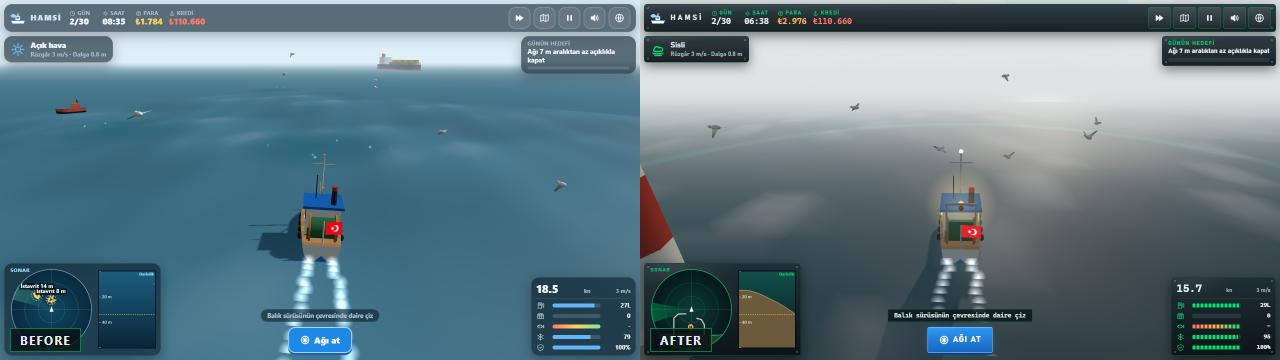
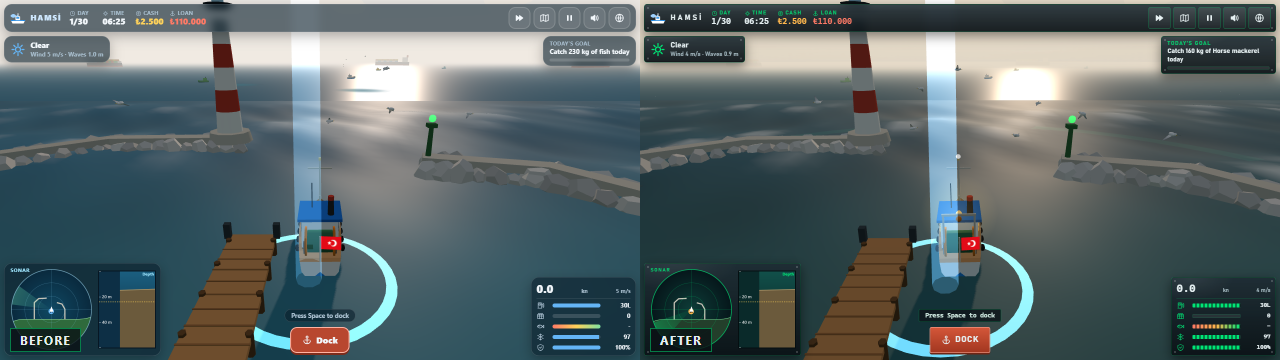
fix(redesign): slate-blue capped mist, dedupe toasts, same-state before/after, mist shot
Claude-Session: https://claude.ai/code/session_014vMYwwQ3htV8WjCni8q7av

diff --git a/index.html b/index.html
@@ -1661,8 +1661,8 @@ function updateEnv(dt) {
   hemi.intensity = lerp(0.9, 0.78, over); hemi.color.setRGB(lerp(0.72, 0.6, over), lerp(0.82, 0.7, over), lerp(0.92, 0.8, over)); hemi.groundColor.setRGB(0.2, 0.3, 0.27);
   SKY.zen.setRGB(0.2, 0.38, 0.55).lerp(SKY.tmp.setRGB(0.86, 0.56, 0.4), warm * 0.45).lerp(SKY.tmp.setRGB(0.36, 0.43, 0.49), over);
   SKY.hor.setRGB(0.62, 0.72, 0.76).lerp(SKY.tmp.setRGB(1.0, 0.72, 0.42), warm * 0.8).lerp(SKY.tmp.setRGB(0.5, 0.56, 0.6), over * 0.9);
-  if (w.fogMorning > 0.2) SKY.hor.lerp(SKY.tmp.setRGB(0.78, 0.84, 0.86), w.fogMorning * 0.6);
-  scene.fog.color.copy(SKY.hor); scene.fog.density = w.fog * (1 + 0.5 * warm);
+  if (w.fogMorning > 0.2) SKY.hor.lerp(SKY.tmp.setRGB(0.36, 0.45, 0.5), w.fogMorning * 0.55); // slate-blue mist, never milky white
+  scene.fog.color.copy(SKY.hor); scene.fog.density = Math.min(w.fog, 0.0065) * (1 + 0.3 * warm);
   waterBase.setRGB(0.04, 0.14, 0.19).multiplyScalar(lerp(1.05, 0.6, over) * (0.72 + 0.28 * Math.sin(el))); farSea.material.color.copy(waterBase).multiplyScalar(1.0);
   cloudMesh.material.color.setRGB(lerp(1, 0.42, w.s), lerp(1, 0.44, w.s), lerp(1, 0.48, w.s)); cloudMesh.position.set(camera.position.x, 0, camera.position.z);
   skyT -= dt; if (skyT <= 0) {
@@ -1670,8 +1670,8 @@ function updateEnv(dt) {
     g.addColorStop(0, '#' + SKY.zen.getHexString()); g.addColorStop(0.32, '#' + SKY.tmp.copy(SKY.zen).lerp(SKY.hor, 0.55).getHexString()); g.addColorStop(0.5, '#' + SKY.hor.getHexString()); g.addColorStop(1, '#' + SKY.hor.getHexString());
     skyCtx.fillStyle = g; skyCtx.fillRect(0, 0, 2, 128); skyTex.needsUpdate = true;
   }
-  { const base = 0.34 + 0.5 * w.fogMorning + 0.3 * w.s; for (const m of mistRings) { m.position.set(camera.position.x, m.userData.h * 0.22, camera.position.z); m.material.color.copy(SKY.hor).lerp(SKY.tmp.setRGB(1, 1, 1), 0.12); m.material.opacity = m.userData.op * base; m.userData.tex.offset.x += m.userData.sp * dt; }
-    mistBankMat.color.copy(SKY.hor); mistBankMat.opacity = 0.16 + 0.34 * w.fogMorning + 0.2 * w.s; for (const b of mistBanks) b.position.y += Math.sin(VT * 0.2 + b.userData.ph) * 0.004; }
+  { const base = Math.min(0.62, 0.3 + 0.28 * w.fogMorning + 0.2 * w.s); for (const m of mistRings) { m.position.set(camera.position.x, m.userData.h * 0.22, camera.position.z); m.material.color.copy(SKY.hor).lerp(SKY.tmp.setRGB(0.23, 0.3, 0.35), 0.35); m.material.opacity = m.userData.op * base; m.userData.tex.offset.x += m.userData.sp * dt; }
+    mistBankMat.color.copy(SKY.hor).lerp(SKY.tmp.setRGB(0.23, 0.3, 0.35), 0.3); mistBankMat.opacity = Math.min(0.32, 0.14 + 0.16 * w.fogMorning + 0.1 * w.s); for (const b of mistBanks) b.position.y += Math.sin(VT * 0.2 + b.userData.ph) * 0.004; }
   sky.position.copy(camera.position); sunSprite.position.copy(camera.position).addScaledVector(sd, 3000); sunSprite.material.opacity = (1 - over) * 0.8; sunSprite.visible = sunSprite.material.opacity > 0.03 && sd.y > 0.02;
   const b = G.boat; sun.position.set(b.x + sd.x * 90, sd.y * 90, b.z + sd.z * 90); sun.target.position.set(b.x, 0, b.z); sun.target.updateMatrixWorld();
   { const dk = clamp(over * 0.9 + warm * 0.8 + w.fogMorning * 0.5, 0, 1); boatLightMat.color.setScalar(0.2 + 0.8 * dk); boatGlowMat.opacity = 0.04 + 0.3 * dk; }
@@ -1714,8 +1714,8 @@ const txtCache = new Map();
 function setText(el, v) { if (typeof el === 'string') el = $(el); if (!el) return; const k = el; if (txtCache.get(k) !== v) { txtCache.set(k, v); el.textContent = v; } }
 function setBar(id, f, low) { const el = $(id); const i = el.firstElementChild; const w = (clamp(f, 0, 1) * 100).toFixed(0) + '%'; if (i.style.width !== w) i.style.width = w; el.classList.toggle('low', !!low); }
 function toast(msg, kind) {
-  const box = $('toasts'); if (!box) return; const d = document.createElement('div'); d.className = 'toast ' + (kind || 'info'); d.textContent = msg; box.appendChild(d);
-  while (box.children.length > 4) box.removeChild(box.firstChild);
+  const box = $('toasts'); if (!box) return; const lt = box.lastElementChild; if (lt && lt.textContent === msg && !lt.classList.contains('out')) return; const d = document.createElement('div'); d.className = 'toast ' + (kind || 'info'); d.textContent = msg; box.appendChild(d);
+  while (box.children.length > 3) box.removeChild(box.firstChild);
   setTimeout(() => d.classList.add('out'), 3000); setTimeout(() => d.remove(), 3400);
 }
 const ICON_USE = el => el.querySelector('use');

diff --git a/README.md b/README.md
@@ -108,7 +108,7 @@ The live state is on `window.hamsi` (day, money, loan, boat, schools, net, weath
 
 **Art direction:** moody maritime stylized. Palette: Black Sea slate `#24343F`, foam `#E6F0F2`, boat blue `#1E88E5`, tea-terrace green `#4C7A3A`, sodium harbour `#FFB74D`, with sonar green `#00E676` for the instruments. The HUD is a set of wet-weather instrument panels (dark steel, rivets, sonar-green hairlines, monospace readouts, segmented gauge bars).
 
-<p align="center"><img src="docs/redesign-before-after.png" width="100%" alt="Before and after: the same open-sea moment with the old glass HUD on the left and the new instrument-panel look on the right"></p>
+<p align="center"><img src="docs/redesign-before-after.png" width="100%" alt="Before and after: the same state (day 1, 06:25, clear, same camera) with the old glass HUD on the left and the new instrument-panel look on the right"></p>
 
 What changed (visuals only; physics, controls, scoring, bot, saves and the 30-day structure are untouched):
 
@@ -117,6 +117,7 @@ What changed (visuals only; physics, controls, scoring, bot, saves and the 30-da
 - **Boat and crew:** trawler with an A-frame, fish boxes, navigation lights, lit wheelhouse windows and a deck lamp that brighten in bad light, sou'wester hats on the crew, floats that bob on the net.
 - **Animation and FX:** denser, longer rain streaks, rain droplets on the "lens" during storms, a sonar ping ring leaving the hull every 3.2 s.
 - **UI:** every screen (title, HUD, harbour, summary, ending, pause, settings, map) restyled; sonar, fish finder and map redrawn in sonar green on dark; Bahnschrift / Cascadia Mono system fonts with fallbacks, no new files or requests.
+- **Mist:** tinted slate-blue and capped (fog density and mist alpha), so the sea, wave crests and coast stay readable in misty weather ([docs/07-mist.png](docs/07-mist.png)). Repeated identical toasts no longer stack.
 - **Phone:** same layout rules as before, re-checked at 500x900 with the new panels.
 
 Measured on the development laptop (Intel UHD 620, headless Chrome, 1280x720; before is the `main` build, after is this branch): 60 fps in both; draw calls 18 before and 23-24 after while sailing clear water, up to 49-56 after during netting, storms and harbour views (budget about 150). The `?auto` bot finished the 30-day season as reis with the loan paid, with 0 JavaScript errors. Not checked: a real phone, Firefox and Safari.
